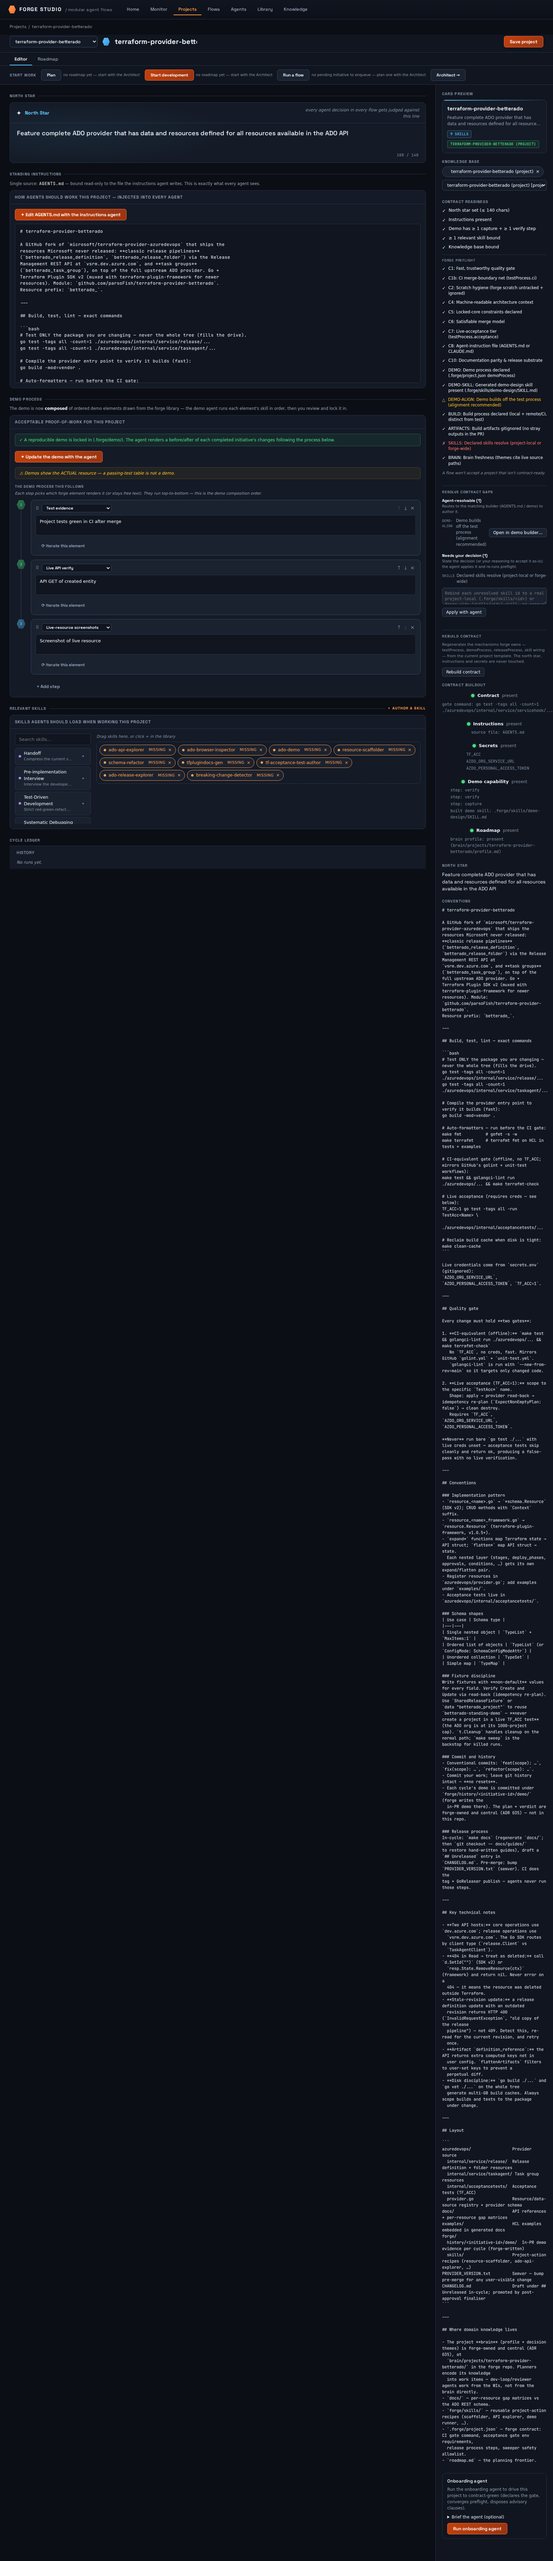
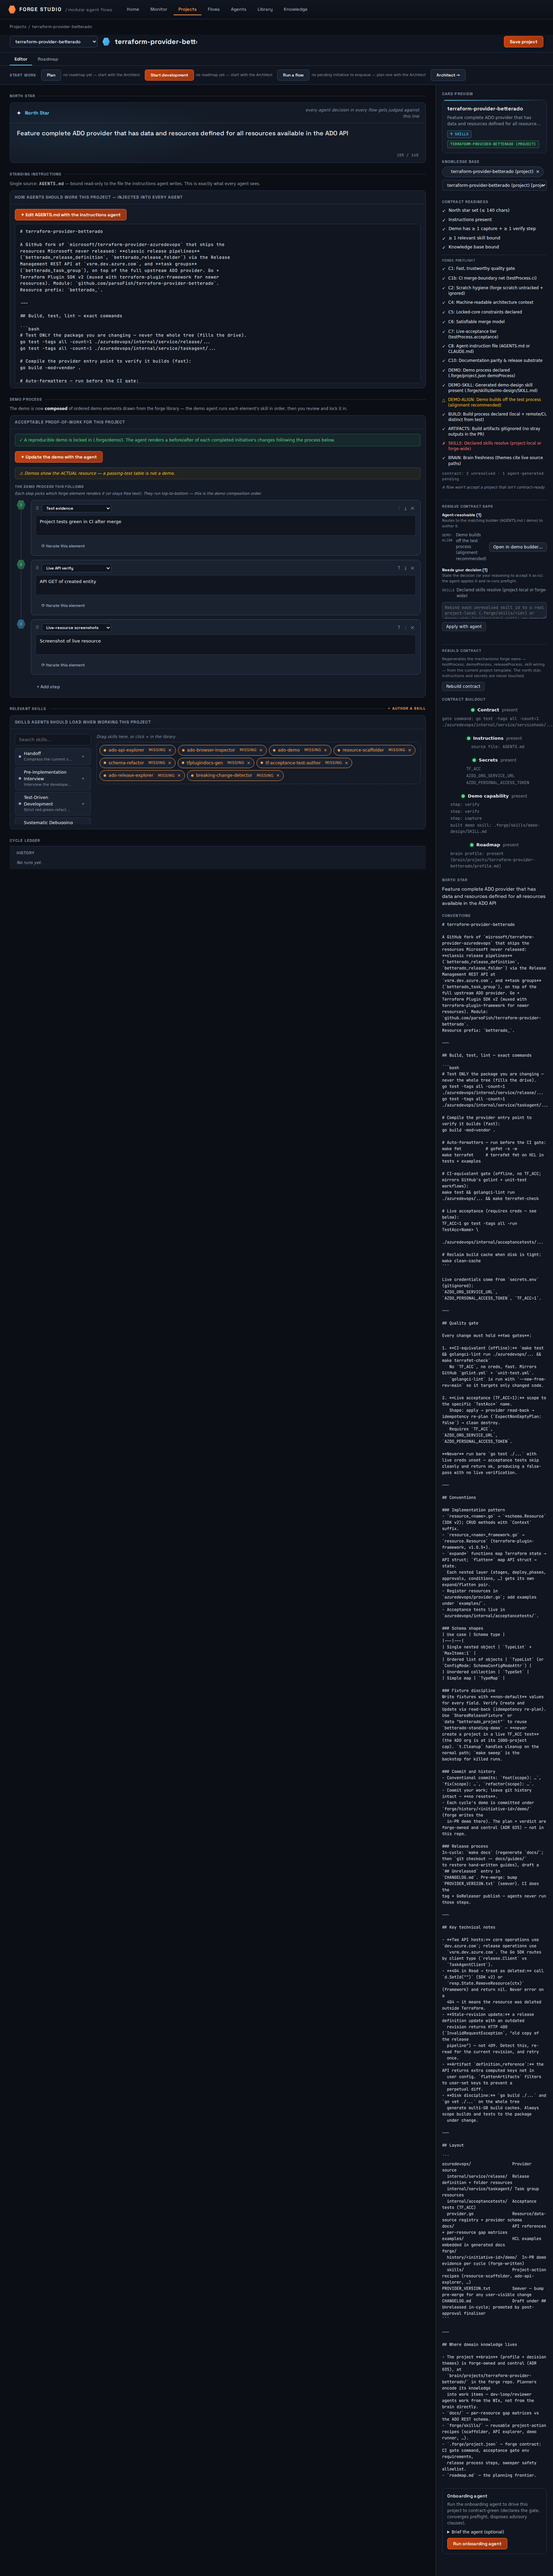
docs(stories): S3's triple — verdict, clip and how-to from run 4
S3 run 4 on main f74eaed3: 12/12 beats green, rc 0, the artifact written for the
first time since 2026-09-05.

The committed story.json recorded 12 beats with 10 green — a run that was red at
beats 5 and 6. Both are green here, and neither needed a product fix: the
Rebuild control already moved the nine skills and preflight already passed. What
was missing was a way for the fence to tell a licensed change from a breach, and
a premise check the product ran itself.

Three fixes since that run, each proved by this one:

  7.6.136  the story DECLARES the nine skill moves its Rebuild makes, so they
           classify DECLARED rather than UNDECLARED — run 3's nine reds are run
           4's nine licensed changes, same paths, opposite verdict
  7.6.137  the runner clears the _logs sessions it minted, so this run started on
           a clean tree without the hand capture-then-clear the last three paid
  7.6.139  the ground-at-its-pin premise is checked by the PRODUCT, and an
           unmatched declaration reds

So a green run 4 means more than a green run 3 would have: the beats passed, the
ground was provably at its pin when the run started — checked by the runner
against a ground it measured itself — and every change the story declares its
product makes actually happened.

    DECLARED 9 · undeclared 0 · unmatched 0 · machinePathsIn []

TWELVE FRAMES, DERIVED FROM WHAT story.json REFERENCES, not from the directory.
[…]

diff --git a/demos/stories/index.html b/demos/stories/index.html
@@ -37,9 +37,9 @@
     <p class="verdict green">green · 13/13 beats green</p>
     <video src="S2/story.webm" autoplay loop muted playsinline></video>
   </section>
-  <section class="story red">
+  <section class="story green">
     <h2>S3 — Reset a project contract</h2>
-    <p class="verdict red">red · 10/12 beats green</p>
+    <p class="verdict green">green · 12/12 beats green</p>
     <video src="S3/story.webm" autoplay loop muted playsinline></video>
   </section>
   <section class="story green">

diff --git a/docs/how-to/S3.md b/docs/how-to/S3.md
@@ -8,8 +8,6 @@ generated_from: tests/stories/S3.story.mjs
 
 > Generated by `npm run stories -- --story S3` from `tests/stories/S3.story.mjs`. Do not hand-edit — edit the story and re-run it.
 
-> **This story did not pass.** The steps marked RED below describe what the operator flow is meant to do, not what it currently does.
-
 ## 1. Open Studio on the Projects pillar
 
 The Projects pillar lists every project forge manages. The one this story is about has been here longest, and the pillar says it is healthy — which is true of the repo and no longer true of the contract forge builds against it.
@@ -76,29 +74,20 @@ It does not resolve. Nor do the other eight. The skills are on disk — they sit
 
 Rebuilding is not repairing. Forge regenerates the mechanisms it owns — the project config, the test, demo and release processes, the skill wiring — from the template every project created today is built from, and it shows the operator a drift report first: what it will change, what it will leave alone, and what it cannot decide. Only then does it rewrite anything. Applying it leaves preflight MET on a project whose north star, instructions and secrets forge never had the right to touch — which is what the next four beats go and check, one at a time.
 
-> **This step is RED — not verified working.** The run asserted state the product did not show:
->
-> - data-section: expected "contract-drift-applied", got "start-work"
-> - data-preflight-ok: expected "true", absent from the page
-
 ![Press "Rebuild contract", and read the drift report it produces before applying it](frames/05-press-rebuild-contract-and-read-the-drif.png)
 
 <details><summary>What you should see</summary>
 
 - `data-page` is `projects`
 - `data-project-id` is `terraform-provider-betterado`
-- `data-section` is `start-work`
+- `data-section` is `contract-drift-applied`
+- `data-preflight-ok` is `true`
 
 </details>
 
 ## 6. Check the nine skills resolve now
 
 The rebuild moved the skills to where the current contract expects them and rewrote the wiring that points at them. The bindings the project has carried all along now resolve, and the agents that run against this project can reach the moves that are specific to it.
-
-> **This step is RED — not verified working.** The run asserted state the product did not show:
->
-> - data-resolved: expected "ok", got "missing"
-> - data-skill-source: expected "project", got "missing"
 
 ![Check the nine skills resolve now](frames/06-check-the-nine-skills-resolve-now.png)
 
@@ -108,8 +97,8 @@ The rebuild moved the skills to where the current contract expects them and rewr
 - `data-project-id` is `terraform-provider-betterado`
 - `data-kind` is `skill`
 - `data-skill-id` is `ado-api-explorer`
-- `data-resolved` is `missing`
-- `data-skill-source` is `missing`
+- `data-resolved` is `ok`
+- `data-skill-source` is `project`
 
 </details>
 
@@ -183,7 +172,7 @@ A template can regenerate the mechanisms forge owns. It cannot write an API expl
 - `data-project-id` is `terraform-provider-betterado`
 - `data-section` is `onboard-with-agent`
 - `data-onboard-run-status` is `running`
-- `data-onboard-session-id` is `2026-09-05T02-14-24-f40ef3dd`
+- `data-onboard-session-id` is `2026-09-18T11-29-33-c67a6278`
 - `data-onboard-attaching` is `false`
 
 </details>
